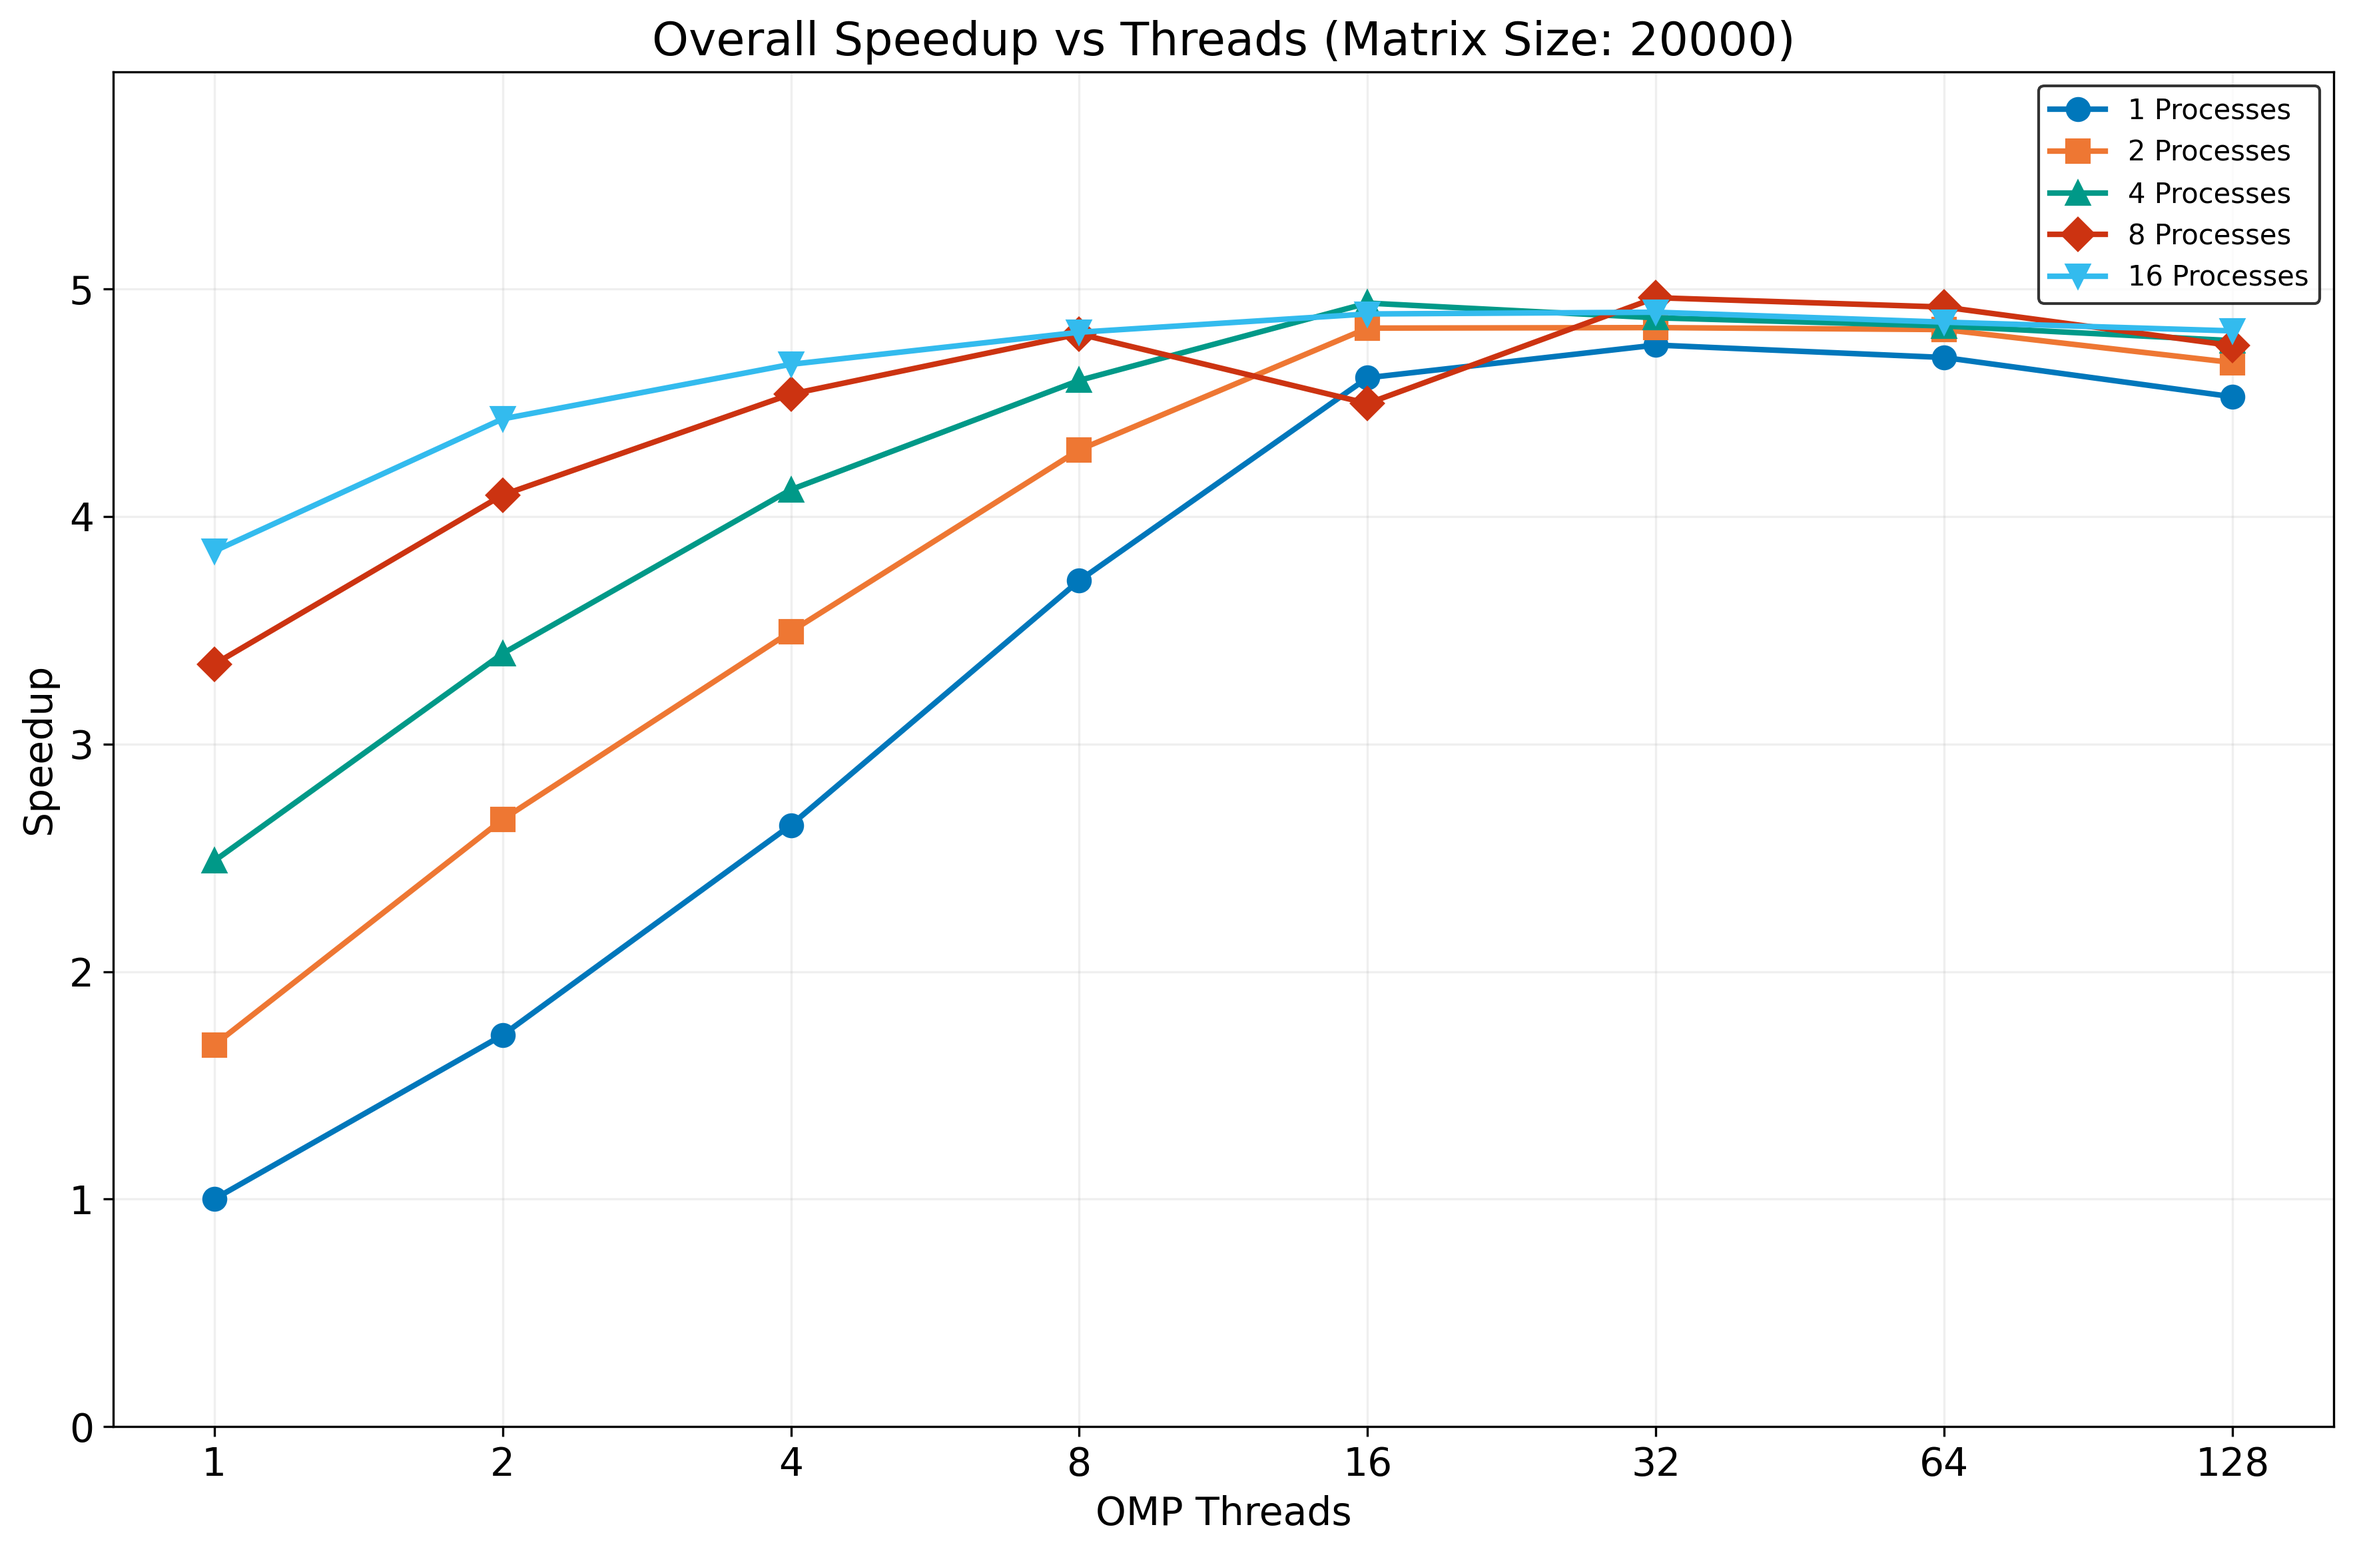
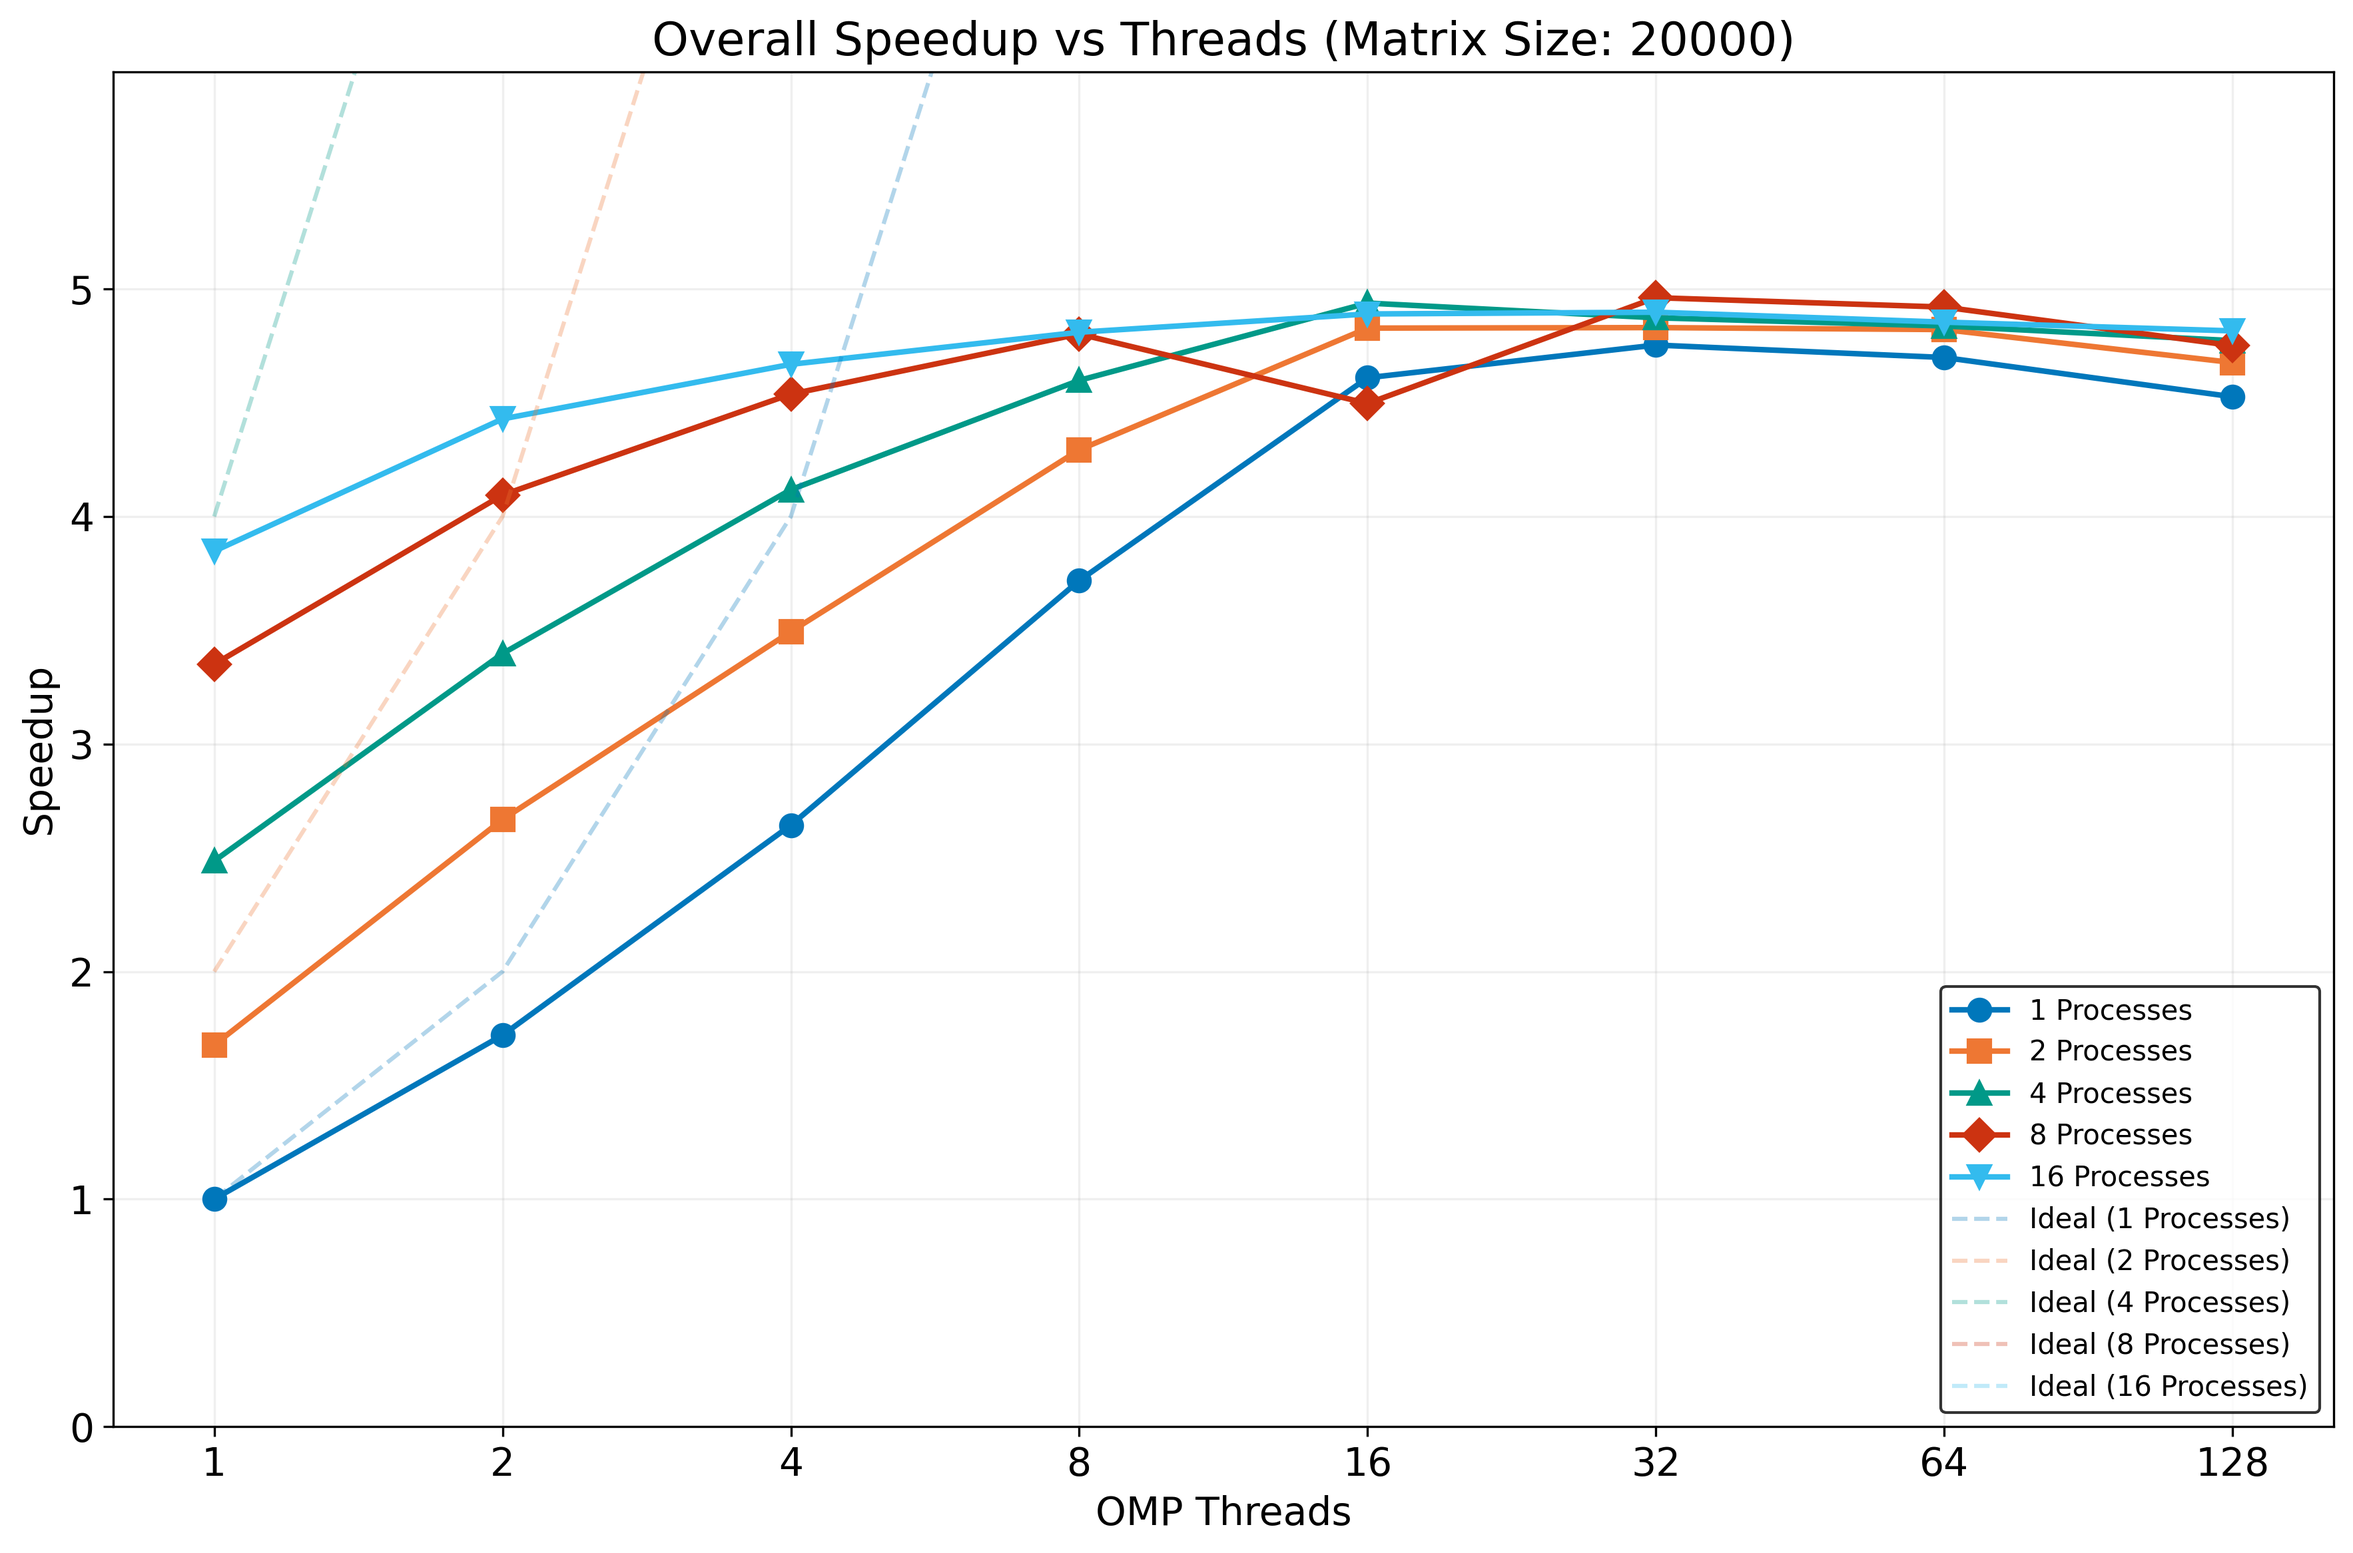
fix run_all.py as well as modify plot_both.py

Changed region(s): [[0.8095, 0.6481, 0.9963, 0.9258], [0.8718, 0.0617, 0.9963, 0.1852]]

diff --git a/Python/plot_both.py b/Python/plot_both.py
@@ -83,9 +83,9 @@ def plot_serial_fraction(df, output_dir):
             
             plt.grid(True, which="both", ls="-", alpha=0.2)
             plt.tight_layout()
-            plt.savefig(os.path.join(output_dir, 
-                       f'serial_fraction_{metric_type.lower()}_matrix_{matrix_size}.png'), 
-                       dpi=300, bbox_inches='tight')
+            save_path = os.path.join(output_dir, f'serial_fraction_{metric_type.lower()}_matrix_{matrix_size}.png')
+            plt.savefig(save_path, dpi=300, bbox_inches='tight')
+            print(f"Saved {save_path}")
             plt.close()
 
 def plot_timing_components(df, output_dir):
@@ -137,9 +137,9 @@ def plot_timing_components(df, output_dir):
             
             plt.grid(True, which="both", ls="-", alpha=0.2)
             plt.tight_layout()
-            plt.savefig(os.path.join(output_dir, 
-                       f'time_{timing_type.lower()}_matrix_{matrix_size}.png'), 
-                       dpi=300, bbox_inches='tight')
+            save_path = os.path.join(output_dir, f'time_{timing_type.lower()}_matrix_{matrix_size}.png')
+            plt.savefig(save_path, dpi=300, bbox_inches='tight')
+            print(f"Saved {save_path}")
             plt.close()
 
 def plot_speedup_efficiency(df, output_dir):
@@ -195,6 +195,21 @@ def plot_speedup_efficiency(df, output_dir):
                             label=f'{process_count} Processes',
                             color=colors[idx % len(colors)])
                 
+                # Add ideal lines
+                thread_values = sorted(df['OMP Threads'].unique())
+                if plot_type == 'Speedup':
+                    # Single reference line
+                    ideal_speedup = thread_values  # Linear scaling with number of threads
+                    plt.plot(thread_values, ideal_speedup,
+                            linestyle='--',
+                            color='black',
+                            label='Ideal',
+                            alpha=0.5)
+                elif plot_type == 'Efficiency':
+                    # Add horizontal line at y=1 for perfect efficiency
+                    plt.axhline(y=1, color='black', linestyle='--', 
+                                label='Ideal Efficiency', alpha=0.5)
+                
                 if plot_type == 'Speedup':
                     plt.ylim(0, max_actual_speedup * 1.2)
                 else:  # Efficiency
@@ -212,9 +227,11 @@ def plot_speedup_efficiency(df, output_dir):
                 
                 plt.grid(True, which="both", ls="-", alpha=0.2)
                 plt.tight_layout()
-                plt.savefig(os.path.join(output_dir, 
-                           f'{plot_type.lower()}_matrix_{matrix_size}_{metric_type.lower()}.png'), 
-                           dpi=300, bbox_inches='tight')
+                # Modify the save_path line in plot_speedup_efficiency:
+                save_path = os.path.join(output_dir, 
+                    f'{plot_type.lower()}_matrix{matrix_size}_{metric_type.lower()}.png')
+                plt.savefig(save_path, dpi=300, bbox_inches='tight')
+                print(f"Saved {save_path}")
                 plt.close()
 
 def parse_arguments():

diff --git a/Python/gather_data_all_sample.py b/Python/gather_data_all_sample.py
@@ -29,9 +29,9 @@ except subprocess.CalledProcessError as e:
 
 # Matrix sizes (n) and thread/process counts
 MATRIX_SIZES = [50, 100, 150]
-THREAD_COUNTS = [1, 2, 4, 8]        # Regular OpenMP and Pthread tests
-PROCESS_COUNTS = [1, 2, 4, 8]       # MPI processes
-THREAD_COUNTS_HYBRID = [1, 2, 4, 8, 16]  # Hybrid MPI+OpenMP can go up to 16
+THREAD_COUNTS = [1, 2, 4]        # Regular OpenMP and Pthread tests
+PROCESS_COUNTS = [1, 2, 4]       # MPI processes
+THREAD_COUNTS_HYBRID = [1, 2, 4]  # Hybrid MPI+OpenMP can go up to 16
 
 # Number of time steps
 TS = 12
@@ -104,7 +104,7 @@ for n in MATRIX_SIZES:
             print(f"Running MPI driver: {TS} iterations for matrix size {n}x{n} with {p} processes...")
             try:
                 result = subprocess.run(
-                    ["mpirun", "--oversubscribe", "-np", str(p), "--map-by", "node", "--bind-to", "core",
+                    ["mpirun", "--oversubscribe", "-np", str(p), "--map-by", "node",
                      "./mpi-stencil-2d", str(TS), INPUT_FILE, OUTPUT_FILE, "0"],
                     capture_output=True,
                     text=True,
@@ -126,7 +126,7 @@ for n in MATRIX_SIZES:
                 print(f"Running MPI-OMP driver: {TS} iterations for matrix size {n}x{n} with {p} processes and {t} threads...")
                 try:
                     result = subprocess.run(
-                        ["mpirun", "--oversubscribe", "-np", str(p), "--map-by", f"node:PE={t}", "--bind-to", "core",
+                        ["mpirun", "--oversubscribe", "-np", str(p),
                          "./mpi-omp-stencil-2d", str(TS), INPUT_FILE, OUTPUT_FILE, str(t), "0"],
                         capture_output=True,
                         text=True,

diff --git a/Python/gather_and_plot.py b/Python/gather_and_plot.py
@@ -3,20 +3,20 @@ import subprocess
 import sys
 
 print("Collecting data...")
-subprocess.run(["python3", "gather_data.py", "pthreads_sample.csv", "omp_sample.csv", "mpi_sample.csv", "mpi_omp_sample.csv"])
+subprocess.run(["python3", "gather_data_all_sample.py", "pthread_sample.csv", "omp_sample.csv", "mpi_sample.csv", "mpi_omp_sample.csv"])
 print("Data Gathering Completed")
 
 print("Plotting data...")
 print("Plotting data for pthreads...")
-subprocess.run(["python3", "plot_data.py", "../data/pthreads.csv"])
+subprocess.run(["python3", "plot_data.py", "../data/pthread_sample.csv"])
 print("Plotting data for omp...")
-subprocess.run(["python3", "plot_data.py", "../data/omp.csv"])
+subprocess.run(["python3", "plot_data.py", "../data/omp_sample.csv"])
 print("Plotting completed.")
 print("Plotting data for mpi...")
-subprocess.run(["python3", "plot_data.py", "../data/mpi.csv"])
+subprocess.run(["python3", "plot_data.py", "../data/mpi_sample.csv"])
 print("Plotting completed.")
 print("Plotting data for mpi-omp-hybrid...")
-subprocess.run(["python3", "plot_both.py"])
-print("Plotting completed."
+subprocess.run(["python3", "plot_both.py", "../data/mpi_omp_sample.csv"])
+print("Plotting completed.")
 
 print("Run all completed.")

diff --git a/Python/run_all.py b/Python/run_all.py
@@ -1,4 +1,4 @@
-mport os
+import os
 import subprocess
 
 # Change to the 'code' directory
@@ -39,6 +39,24 @@ subprocess.run(["./omp-stencil-2d", "10", "initial.dat", "final1.dat", "1", "4"]
 
 # Run 
 subprocess.run(["./print-2d", "final1.dat"])
+
+print("-------------------------------------")
+
+# Run 'mpirun -np 4 ./mpi-stencil-2d 25 initial.dat final2.dat 1'
+print("Running MPI stencil...")
+subprocess.run(["mpirun", "-np", "4", "./mpi-stencil-2d", "25", "initial.dat", "final2.dat", "1"])
+# Run 
+subprocess.run(["./print-2d", "final2.dat"])
+
+print("-------------------------------------")
+
+# Run 'mpirun -np 4 ./mpi-omp-stencil-2d 25 initial.dat final2.dat 4 1'
+print("Running MPI-OMP-Hybrid stencil...")
+subprocess.run(["mpirun", "-np", "4", "./mpi-omp-stencil-2d", "25", "initial.dat", "final3.dat", "4", "1"])
+# Run 
+subprocess.run(["./print-2d", "final3.dat"])
+
+print("-------------------------------------")
 
 # Run 'make clean all' to compile the code
 subprocess.run(["make", "clean"])
